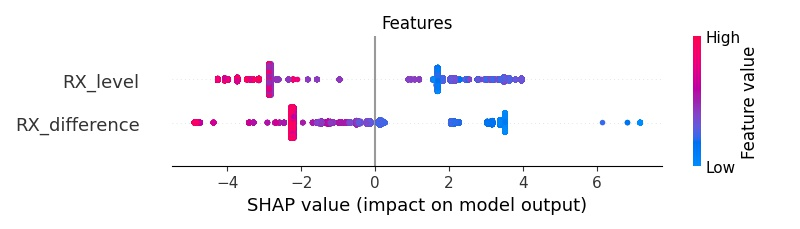
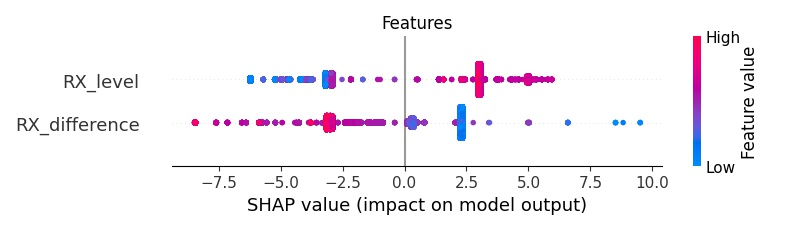
update

diff --git a/src/NLOS_detection_and_mitigation.py b/src/NLOS_detection_and_mitigation.py
@@ -191,7 +191,9 @@ class NLOS_detection_and_Mitigation:
         self.pred_from_grand_model = self.grand_model.predict([input_data])
         # print(f'grand model {self.pred_from_grand_model} input_data {input_data}')
 
-    def get_position(self, ts_with_los_prediction, exclude_nlos=False):
+    def simple_anchor_selection_filter(self, ts_with_los_prediction, exclude_nlos=False):
+        'this anchor id logic is embedded'
+        'split position estimation logic from anchor selection'
         # ts_with_los_prediction = np.array(ts_with_los_prediction)
         # print(ts_with_los_prediction)
         los = 1
@@ -243,8 +245,14 @@ class NLOS_detection_and_Mitigation:
                     # print(A_n)
                     ts_with_los_prediction = nlos_anchors[:
                                                           number_of_anchors_for_pos_estimation, 1:]
-        'i want to return only [tagid, ts, lospred]'
-        # print(f'{ts_with_los_prediction} detection {self.pred_from_detection}')
+        else:
+            'i want to return only [tagid, ts, lospred]'
+            'try to get working anchors'
+            anchor_indices = ts_with_los_prediction[:, 0].astype(int) - 1
+            'i want to return only [tagid, ts, lospred]'
+            ts_with_los_prediction = ts_with_los_prediction[:, 1:]
+            A_n = A_n[anchor_indices, :, :]
+
 
         n = len(A_n)
         c = 299792458
@@ -301,8 +309,8 @@ class NLOS_detection_and_Mitigation:
         'first is filtered and second is original'
         # ts_with_pred = self.smart_timestamp_filter()
         ts_with_pred = self.simple_timestamp_filter()
-        filtered = self.get_position(ts_with_pred)[0]
-        original = self.get_position(self.vanilla_ts)[0]
+        filtered = self.simple_anchor_selection_filter(ts_with_pred)[0]
+        original = self.simple_anchor_selection_filter(self.vanilla_ts)[0]
         payload_ = f'[{filtered}, {original}]'
         self.client.publish('positions', payload_)
         # print(
@@ -312,7 +320,9 @@ class NLOS_detection_and_Mitigation:
         print(f'2 original {original}')
 
     def get_position_vanilla(self, ts_with_los_prediction):
-        'updated pos calc with anchor id'
+        'make this as only position estimation logic'
+        "that takes [tagid, ts, lospred] values only"
+
         los = 1
         los_anchors = np.empty(shape=(0, 4))
 
@@ -382,6 +392,8 @@ class NLOS_detection_and_Mitigation:
 
     def project_athena(self, ts_with_los_prediction):
         'in development'
+        'it will become smart anchor selection filter'
+        'embedd convex hull logic as well'
         # print(ts_with_los_prediction)
         los = 1
         los_anchors = np.empty(shape=(0, 4))
@@ -444,11 +456,11 @@ if __name__ == "__main__":
         time.sleep(0.5)
         test.anomaly_detection()
         ts_with_pred = test.simple_timestamp_filter()
-        test.project_athena(ts_with_pred)
+        # test.project_athena(ts_with_pred)
         # print(ts_with_pred)
-        # pos = test.get_position_improved(ts_with_pred)
+        pos = test.simple_anchor_selection_filter(ts_with_pred, exclude_nlos=False)
         # pos = test.get_position(ts_with_pred, exclude_nlos=True)
-        # print(pos)
+        print(pos)
 
         'with grand model'
         # time.sleep(0.1)

diff --git a/src/Data_analysis/data_analysis.py b/src/Data_analysis/data_analysis.py
@@ -1,5 +1,6 @@
 import pandas as pd
 from scipy.sparse import data
+from sklearn.ensemble import RandomForestClassifier
 from sklearn.model_selection import train_test_split
 from sklearn.feature_selection import RFE
 from lightgbm import LGBMClassifier
@@ -11,36 +12,33 @@ from sklearn.preprocessing import StandardScaler
 'data analysis for selecting right variables'
 
 los_data = pd.read_csv('data/LOS_good_data_complete.csv')
+los_data = los_data[los_data['RX_difference'] >0]
 los_data["Class"] = 1
 
+# print(los_data[los_data['RX_difference'] <0])
+
+
 nlos_data = pd.read_csv('data/NLOS_2m_generated_4_ss95000_1.csv')
+# nlos_data = nlos_data[(nlos_data['RX_difference'] >10) & (nlos_data['RX_level'] <-85)]
+to_drop_index = nlos_data[(nlos_data['RX_difference'] <10) & (nlos_data['RX_level'] >-85)].index
+nlos_data.drop(to_drop_index, inplace = True)
 
 nlos_data["Class"] = 0
-# print(los_data.head())
-# print(nlos_data.head())
+
 dataframe = pd.concat([nlos_data, los_data], ignore_index=True)
 dataframe = dataframe.drop(["acquisition"], axis=1)
-dataframe['RX_level'] = dataframe['RX_level'] * (-1)
-print(f">>>>>>>>>>>>>>>>>>>>>>\nmax value is {dataframe['RX_level'].max()} and min is {dataframe['RX_level'].min()}")
+print(f">>>>>>>>>>>>>>>>>>>>>>\nRX_level max value is {dataframe['RX_level'].max()} and min is {dataframe['RX_level'].min()}")
+print(f">>>>>>>>>>>>>>>>>>>>>>\nRX_difference max value is {dataframe['RX_difference'].max()} and min is {dataframe['RX_difference'].min()}")
 
+# print(dataframe[dataframe['RX_difference'] <0])
 
-'scaler'
-# class_ = dataframe["Class"]
-# scaler = StandardScaler()
-# scaler.fit(dataframe.iloc[:, :-1])
-# dataframe = pd.DataFrame(scaler.transform(dataframe.iloc[:, :-1]), columns=list(dataframe.iloc[:, :-1].columns))
-# print(dataframe.shape)
-
-# print(dataframe)
 Y = dataframe.iloc[:, -1]
 X = dataframe.iloc[:, :-1]
-# Y = class_
-# X = dataframe
 
 
 
 x_train, x_test, y_train, y_test = train_test_split(
-            X, Y, test_size=0.2)
+            X, Y, test_size=0.3)
 
 
 def run_RFE(num_of_feature, classifier):
@@ -62,7 +60,7 @@ def run_RFE(num_of_feature, classifier):
 parameters_lgbm = {
         'boosting_type': 'gbdt',
         'num_leaves': 10,
-        'max_depth': 2,
+        'max_depth': 4,
         'n_estimators': 50,
         # 'verbose': 1,
         # 'learning_rate': 0.01,
@@ -79,7 +77,7 @@ parameters_lgbm = {
     }
 lgbm = LGBMClassifier(**parameters_lgbm)
 # run_RFE(4, lgbm)
-
+rf = RandomForestClassifier()
 
 def classification(method):
     method.fit(x_train, y_train)
@@ -93,6 +91,16 @@ def classification(method):
     # plt.show()
     plt.savefig(
         f"src/Data_analysis/plot_data/summary_plot.jpg")
+    plt.close()
+    'Dependence plot'
+    _selected_features = [i for i in x_test]
+    for i in range(len(_selected_features)):
+        # shap_values[0]>>to [1]
+        shap.dependence_plot(i, shap_values[1], x_test, show=False)
+        # plt.title(f"dependences")
+        plt.tight_layout()
+        plt.savefig(
+        f"src/Data_analysis/plot_data/Dep_plot_{i}.jpg")
     plt.close()
     "<<<<<<<<"
 

diff --git a/src/Data_analysis/tree_infrastructure.py b/src/Data_analysis/tree_infrastructure.py
@@ -1,0 +1,24 @@
+from anytree import Node, RenderTree
+from anytree.exporter import DotExporter
+import matplotlib.pyplot as plt
+from sklearn import tree
+
+
+Mqtt_broker = Node("MQTT\nbroker") #root
+raspberry_pi = Node("Raspberry\nPi", Mqtt_broker)
+capable_pc = Node("Personal \ncomputer", Mqtt_broker)
+
+dwm1000_dev_board = Node("DWM1001\n Anchor", raspberry_pi)
+nlos_detection_mitigation = Node("NLOS \ndetection &\nmitigation \nalgorithm", capable_pc)
+tag = Node("DWM1001\nTag", dwm1000_dev_board)
+position_estimation = Node("Position \nestimation", nlos_detection_mitigation)
+
+
+# for pre, fill, node in RenderTree(Mqtt_broker):
+#     print("%s%s" % (pre, node.name))
+# DotExporter(Mqtt_broker).to_picture("src/Data_analysis/plot_data/infrastructure_tree_vanilla.png")
+
+
+DotExporter(Mqtt_broker, edgeattrfunc = lambda node, child: "dir=both").to_picture('src/Data_analysis/plot_data/infrastructure_tree_both.png')
+for line in DotExporter(Mqtt_broker, edgeattrfunc = lambda node, child: "dir=both"):
+    print(line)

diff --git a/src/Training/train_pca_gmm.py b/src/Training/train_pca_gmm.py
@@ -84,8 +84,6 @@ label = gm.predict(df)
 "save model"
 if save_models:
     'pca and scaler is the same as for kmeans'
-    # joblib.dump(scaler, 'trained_models/standard_scaler_pca_gmm.save')
-    # joblib.dump(pca, 'trained_models/pca_for_gmm.sav')
     joblib.dump(gm, 'trained_models/gmm.sav')
 
 "plotting"
